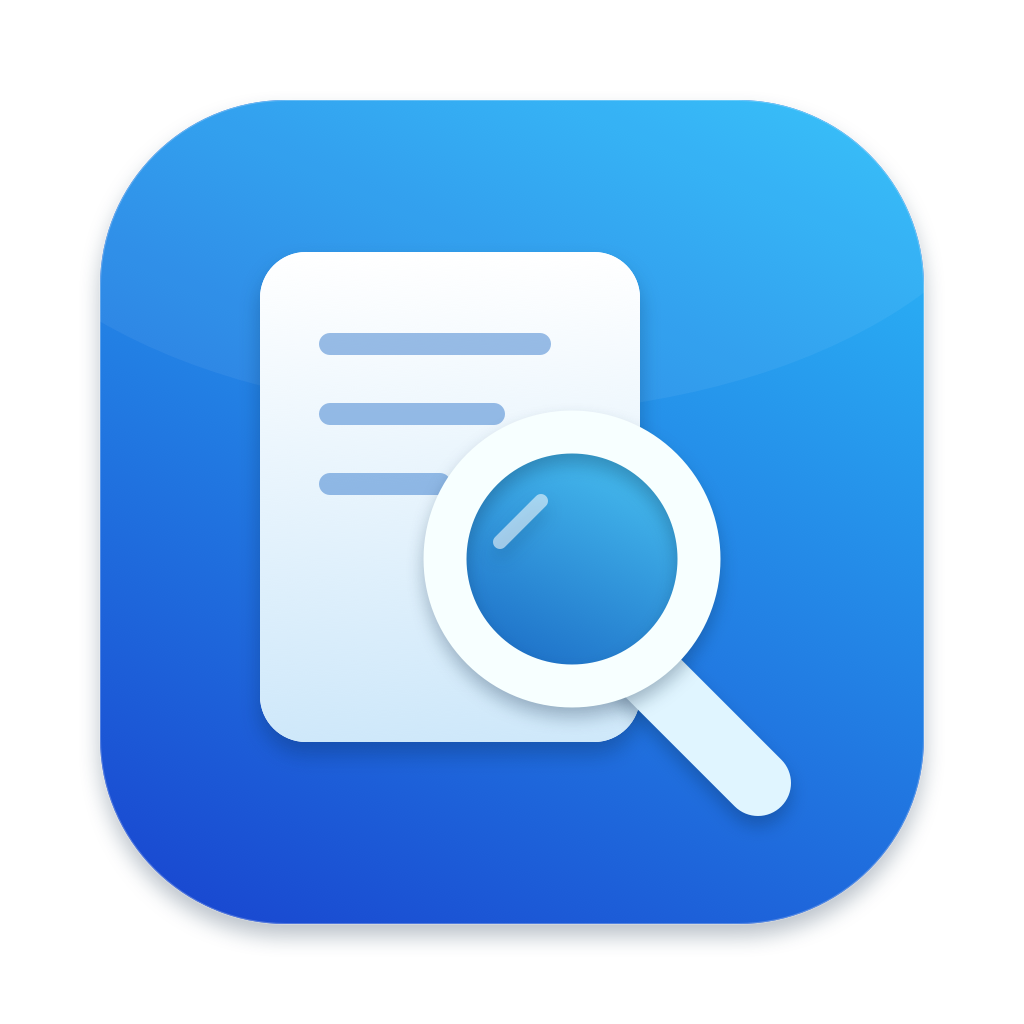
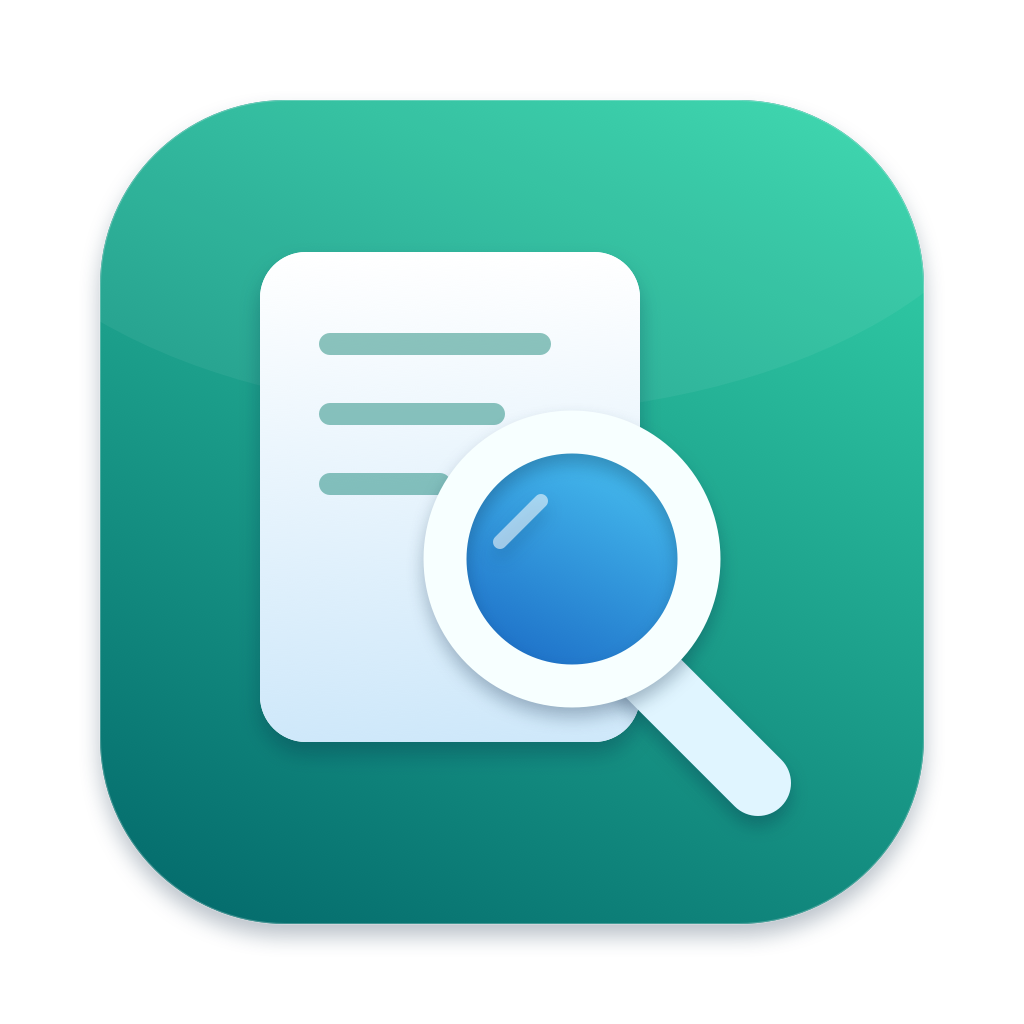
发布1.2.0：支持复制文件并更新文档与图标

diff --git a/Tests/MacSearchDesktopTests/DesktopModelTests.swift b/Tests/MacSearchDesktopTests/DesktopModelTests.swift
@@ -1,10 +1,39 @@
 import Foundation
+import AppKit
 import XCTest
 import MacSearchCore
 @testable import MacSearchDesktopKit
 @testable import MacSearchDesktop
 
 final class DesktopModelTests: XCTestCase {
+    @MainActor
+    func testCopySelectionFileWritesFileURLToPasteboard() throws {
+        let base = FileManager.default.temporaryDirectory.appendingPathComponent(UUID().uuidString)
+        let file = base.appendingPathComponent("report.txt")
+        try FileManager.default.createDirectory(at: base, withIntermediateDirectories: true)
+        defer {
+            NSPasteboard.general.clearContents()
+            try? FileManager.default.removeItem(at: base)
+        }
+        try Data("report".utf8).write(to: file)
+
+        let database = base.appendingPathComponent("index.sqlite").path
+        let writer = try IndexStore(databasePath: database, mode: .readWrite)
+        _ = try writer.addRoot(base.path)
+        _ = try writer.rebuild()
+        let model = DesktopModel(databasePath: database)
+        model.hits = try writer.search(SearchOptions(query: "report")).map(SearchHit.init)
+        guard let hit = model.hits.first(where: { $0.file.name == file.lastPathComponent }) else {
+            XCTFail("索引中未找到测试文件")
+            return
+        }
+        model.selection = hit.id
+        model.copySelectionFile()
+
+        let fileURL = NSPasteboard.general.string(forType: .fileURL)
+        XCTAssertEqual(URL(string: fileURL ?? "")?.path, hit.file.path)
+    }
+
     @MainActor
     func testRemovalRefreshesBusyListAndRestoredFilesCanReappear() async throws {
         let base = FileManager.default.temporaryDirectory.appendingPathComponent(UUID().uuidString).resolvingSymlinksInPath()

diff --git a/Sources/MacSearchDesktop/Application.swift b/Sources/MacSearchDesktop/Application.swift
@@ -150,6 +150,12 @@ final class AppDelegate: NSObject, NSApplicationDelegate, NSWindowDelegate, @pre
                     self.toggleQuickLook()
                     return true
                 }
+                if event.keyCode == 8 && modifiers == [.command],
+                   let table = self.findTable(in: self.window.contentView), self.window.firstResponder === table,
+                   self.model.selected != nil, !self.model.isSearching {
+                    self.model.copySelectionFile()
+                    return true
+                }
                 return false
             }
             return consumed ? nil : event
@@ -209,7 +215,7 @@ final class AppDelegate: NSObject, NSApplicationDelegate, NSWindowDelegate, @pre
     @objc private func copyPath() { model.copySelection() }
     @objc private func trashSelection() { model.requestTrash() }
     @objc private func showAbout() {
-        NSApp.orderFrontStandardAboutPanel(options: [.applicationName: "MacSearch", .applicationVersion: "1.1.0",
+        NSApp.orderFrontStandardAboutPanel(options: [.applicationName: "MacSearch", .applicationVersion: "1.2.0",
                                                      .credits: NSAttributedString(string: "完全离线的 macOS 原生文件搜索")])
     }
 

diff --git a/Sources/MacSearchDesktop/SearchView.swift b/Sources/MacSearchDesktop/SearchView.swift
@@ -285,6 +285,8 @@ struct SearchView: View {
             .contextMenu(forSelectionType: String.self) { paths in
                 Button("打开") { model.selection = paths.first; model.openSelection() }.disabled(paths.isEmpty || model.isSearching)
                 Button("在 Finder 中显示") { model.selection = paths.first; model.revealSelection() }.disabled(paths.isEmpty)
+                Button("复制文件") { model.selection = paths.first; model.copySelectionFile() }
+                    .disabled(paths.isEmpty || model.isSearching)
                 Button("复制路径") { model.selection = paths.first; model.copySelection() }.disabled(paths.isEmpty)
                 Button("复制名称") { model.selection = paths.first; model.copySelectionName() }
                     .disabled(paths.isEmpty || model.isSearching)

diff --git a/scripts/generate_icon.swift b/scripts/generate_icon.swift
@@ -52,9 +52,9 @@ func sparkle(_ x: CGFloat, _ y: CGFloat, _ radius: CGFloat) -> NSBezierPath {
     path.close()
     return path
 }
-let bottom = isSearch ? color(0.10, 0.29, 0.82) : color(0.02, 0.43, 0.43)
-let top = isSearch ? color(0.17, 0.72, 0.97) : color(0.20, 0.82, 0.66)
-let accent = isSearch ? color(0.13, 0.43, 0.78) : color(0.02, 0.49, 0.43)
+let bottom = isSearch ? color(0.02, 0.43, 0.43) : color(0.10, 0.29, 0.82)
+let top = isSearch ? color(0.20, 0.82, 0.66) : color(0.17, 0.72, 0.97)
+let accent = isSearch ? color(0.02, 0.49, 0.43) : color(0.13, 0.43, 0.78)
 let tile = rounded(100, 100, 824, 824, 186)
 shadowed { fill(tile, bottom) }
 gradient(tile, [bottom, top], 65)

diff --git a/Sources/MacSearchDesktop/DesktopModel.swift b/Sources/MacSearchDesktop/DesktopModel.swift
@@ -263,6 +263,13 @@ final class DesktopModel: ObservableObject {
         NSPasteboard.general.setString(selected.path, forType: .string)
     }
 
+    func copySelectionFile() {
+        guard !isSearching, let selected else { return }
+        let url = URL(fileURLWithPath: selected.path)
+        NSPasteboard.general.clearContents()
+        _ = NSPasteboard.general.setString(url.absoluteString, forType: .fileURL)
+    }
+
     func copySelectionName() {
         guard !isSearching, let selected else { return }
         NSPasteboard.general.clearContents()

diff --git a/README.md b/README.md
@@ -2,7 +2,7 @@
 
 MacSearch 是一款完全离线的 macOS 原生文件名搜索工具，提供 SwiftUI 桌面应用和 `mac-search` 命令行工具。为指定目录建立 SQLite 索引后，搜索直接查询索引；FSEvents 在后台接收文件变化并增量更新。
 
-**当前桌面版本：1.1.0。** 已完成命令行引擎、增量监听与异常恢复、原生桌面应用三个阶段，支持结果排序、移到系统废纸篓、右键复制路径和名称，以及使用 Quick Look 预览选中文件。当前仅索引文件系统元数据，不读取文件正文。
+**当前桌面版本：1.2.0。** 已完成命令行引擎、增量监听与异常恢复、原生桌面应用三个阶段，支持结果排序、复制选中文件、移到系统废纸篓、右键复制路径和名称，以及使用 Quick Look 预览选中文件。当前仅索引文件系统元数据，不读取文件正文。
 
 ## 功能概览
 
@@ -12,7 +12,7 @@ MacSearch 是一款完全离线的 macOS 原生文件名搜索工具，提供 Sw
 | 文件名搜索 | 中文、英文、忽略大小写、字面子串、多关键词 AND |
 | 搜索过滤 | 目录范围、多个扩展名、文件／目录类型 |
 | 结果排序 | 匹配度，或按名称、所在目录、修改时间、大小升降序 |
-| 文件操作 | 打开、Quick Look 预览、在 Finder 中显示、复制路径、复制名称、移到废纸篓 |
+| 文件操作 | 打开、Quick Look 预览、在 Finder 中显示、复制文件、复制路径、复制名称、移到废纸篓 |
 | 索引管理 | 添加／移除目录、单目录／全部重建、条目统计和异常状态 |
 | 自动更新 | FSEvents、事件合并、子树对账、失败重试和启动校验 |
 | 桌面入口 | 菜单栏常驻、全局快捷键、可选登录启动 |
@@ -95,6 +95,7 @@ export PATH="$HOME/.local/bin:$PATH"
 | --- | --- |
 | 打开 | 使用系统默认应用打开文件或目录 |
 | 在 Finder 中显示 | 定位并选中该条目 |
+| 复制文件 | 将文件或目录复制到系统剪贴板，可粘贴到 Finder 或其他支持文件粘贴的应用 |
 | 复制路径 | 复制完整路径 |
 | 复制名称 | 复制完整文件名（包含扩展名）或目录名，不带父目录路径 |
 | 移到废纸篓… | 确认后调用系统废纸篓操作，目录会连同内部文件一起移动 |
@@ -117,6 +118,7 @@ export PATH="$HOME/.local/bin:$PATH"
 | 打开结果 | 回车、双击或底部“打开” |
 | 预览选中文件 | 空格，按空格关闭预览 |
 | 在 Finder 中显示 | `Cmd+Return` |
+| 复制文件 | `Cmd+C` 或结果右键菜单 |
 | 复制路径 | `Cmd+Shift+C` |
 | 复制名称 | 结果右键菜单 |
 | 移到废纸篓 | `Cmd+Delete`、右键菜单或底部废纸篓按钮 |
@@ -332,7 +334,7 @@ python3 scripts/verify_watch.py
 ./scripts/build_app.sh
 ```
 
-当前包含 **44 项 XCTest**，覆盖查询、排序、路径边界、Unicode、FTS 回退、扫描取消与失败保护、卷身份、事件丢失与溢出、写锁、查询取消、废纸篓操作、列表刷新及查询缓存失效。1.1.0 的完整回归已通过；复制名称功能已完成 release 编译、签名及菜单入口检查，菜单检查不计为完整剪贴板自动化测试。
+当前包含 **45 项 XCTest**，覆盖查询、排序、路径边界、Unicode、FTS 回退、扫描取消与失败保护、卷身份、事件丢失与溢出、写锁、查询取消、废纸篓操作、列表刷新、查询缓存失效及文件 URL 剪贴板写入。1.2.0 的完整回归已通过；复制文件功能已完成 release 编译、签名及菜单入口检查。
 
 维护删除流程时需保留以下回归约束：同级目录无读取权限不阻止精确清理；连续删除及失败恢复不重启持续监听；操作期间其他进程的变更仍能被索引；文件已移走后，即使退出或取消，也需完成索引事务并释放写锁。列表应立即刷新、拒绝旧查询响应，同路径文件恢复后可再次出现。
 
@@ -387,15 +389,12 @@ python3 scripts/benchmark.py --mode synthetic --entries 1000000 --output benchma
 
 后续可优先完善排除规则、启动恢复性能与内存测量，再评估拼音搜索和供其他本地工具使用的只读检索接口。
 
-## 近期版本
+## 版本记录
 
 | 桌面版本 | 主要变化 |
 | --- | --- |
+| 1.2.0 | 文件列表支持 `Cmd+C` 和右键“复制文件”，将文件或目录复制到系统剪贴板 |
 | 1.1.0 | 常用格式平铺筛选、搜索状态交互优化、300ms 防抖、图标与查询缓存、路径查询及索引优化、新版应用图标 |
 | 1.0.0 | 首个 Git 版本，包含桌面搜索、命令行、增量索引、排序及文件操作 |
-| 0.3.4 | 结果右键菜单新增“复制名称”，保留扩展名 |
-| 0.3.3 | 删除复用持续监听，不再因单次删除重启全目录校验 |
-| 0.3.2 | 删除后精确清理索引并立即刷新列表，防止旧查询结果回写 |
-| 0.3.1 | 四列升降序排序、系统废纸篓及确认和路径保护 |
 
 关键设计、恢复规则和验证边界统一维护在本文中；性能原始数据保留在 `docs/benchmarks/`。
